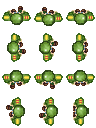
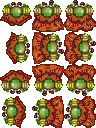
bomb makes comrades sad

diff --git a/src/game.js b/src/game.js
@@ -1,55 +1,58 @@
 
 /* Game namespace */
+//me.game.COMRADE_OBJECT = 10;
 var game = {
     // Run on page load.
     comrads: [],
     sam: null,
+    bomb: null,
 
     onload : function () {
-        // Initialize the video.
-        if (!me.video.init("screen", 960, 480, true, 'auto')) {
-            alert("Your browser does not support HTML5 canvas.");
-            return;
-        }
+      // Initialize the video.
+      if (!me.video.init("screen", 960, 480, true, 'auto')) {
+        alert("Your browser does not support HTML5 canvas.");
+        return;
+      }
 		
-		// add "#debug" to the URL to enable the debug Panel
-		if (document.location.hash === "#debug") {
-			window.onReady(function () {
-				me.plugin.register.defer(debugPanel, "debug");
-			});
-		}
-        me.debug.renderHitBox = true;
-        // Initialize the audio.
-        me.audio.init("mp3,ogg");
-        //Import entities
+  		// add "#debug" to the URL to enable the debug Panel
+  		if (document.location.hash === "#debug") {
+  			window.onReady(function () {
+  				me.plugin.register.defer(debugPanel, "debug");
+  			});
+  		}
+      me.debug.renderHitBox = true;
+      // Initialize the audio.
+      me.audio.init("mp3,ogg");
+      //Import entities
 
-        me.entityPool.add("sam",game.Sam);
-        me.entityPool.add("comrad",game.Comrad);
+      me.entityPool.add("bomb",game.BombEntity);
+      me.entityPool.add("sam",game.Sam);
+      me.entityPool.add("comrad",game.Comrad);
 
-        // bind keys
-        me.input.bindKey( me.input.KEY.LEFT, "left" );
-        me.input.bindKey( me.input.KEY.RIGHT, "right" );
-        me.input.bindKey( me.input.KEY.UP, "up" );
-        me.input.bindKey( me.input.KEY.DOWN, "down" );
+          // bind keys
+      me.input.bindKey( me.input.KEY.LEFT, "left" );
+      me.input.bindKey( me.input.KEY.RIGHT, "right" );
+      me.input.bindKey( me.input.KEY.UP, "up" );
+      me.input.bindKey( me.input.KEY.DOWN, "down" );
 
-        // Set a callback to run when loading is complete.
-        me.loader.onload = this.loaded.bind(this);
-     
-        // Load the resources.
-        me.loader.preload(game.resources);
+      // Set a callback to run when loading is complete.
+      me.loader.onload = this.loaded.bind(this);
+       
+      // Load the resources.
+      me.loader.preload(game.resources);
 
-        // Initialize melonJS and display a loading screen.
-        me.state.change(me.state.LOADING);
+      // Initialize melonJS and display a loading screen.
+      me.state.change(me.state.LOADING);
     },
 
     // Run on game resources loaded.
     loaded : function () {
-        me.state.set(me.state.MENU, new game.TitleScreen());
-        me.state.set(me.state.PLAY, new game.PlayScreen());
-        me.state.set(me.state.GAMEOVER, new game.GameOverScreen());
+      me.state.set(me.state.MENU, new game.TitleScreen());
+      me.state.set(me.state.PLAY, new game.PlayScreen());
+      me.state.set(me.state.GAMEOVER, new game.GameOverScreen());
 
-        // Start the game.
-        //me.state.change(me.state.MENU);
-        me.state.change(me.state.PLAY);
+      // Start the game.
+      //me.state.change(me.state.MENU);
+      me.state.change(me.state.PLAY);
     }
 };

diff --git a/src/entities/comrad.js b/src/entities/comrad.js
@@ -1,63 +1,65 @@
 // Base person.
 game.Comrad = me.ObjectEntity.extend({
-	init: function(x, y, settings) {
-		this.parent(x, y, settings);
-		this.nickname = settings.nickname || "Charly";
+  init: function(x, y, settings) {
+    settings.image = "comrad";  
+    this.parent(x, y, settings);
+    this.nickname = settings.nickname || "Charly";
 
-		this.gravity = 0.0;
+    this.gravity = 0.0;
     this.origVelocity = new me.Vector2d( 5.0, 5.0 );
     this.setVelocity( this.origVelocity.x, this.origVelocity.y );
     this.setFriction(0.55,0.55);
 
     this.range = Math.random()*game.config.circleDist + game.config.minDist;
-   // this.updateColRect(-1, 0, 4, 30);
+     // this.updateColRect(-1, 0, 4, 30);
 
     this.directionString = "up";
     var directions = [ "up", "right", "down", "left" ];
-    
+      
     for ( var i = 0; i < directions.length; i++ )  {
-    	var index = i*3;
+      var index = i*3;
       this.renderable.addAnimation( directions[ i ] + "idle", [ index + 2 ] );
       this.renderable.addAnimation( directions[ i ] + "run",
-          [ index + 1, index ] );
+        [ index + 1, index ] );
     }
     this.renderable.setCurrentAnimation( this.directionString + "idle" );
     this.renderable.animationspeed = 5;
-
+    
+    this.type = me.game.COMRADE_OBJECT;
     game.comrads.push(this);
     this.index = game.comrads.indexOf(this);
     this.posX = (this.index % game.config.rowLength +1) * 48;
     this.posY = Math.floor(this.index / game.config.rowLength +1) * 48;
-	},
+  },
 
-	checkMovement: function(){
+  checkMovement: function(){
     var dist = this.distanceTo(game.sam);
     var distX = Math.cos(this.angleTo(game.sam)) * dist;
     var distY = Math.sin(this.angleTo(game.sam)) * dist;
     if (Math.abs(distX) > this.posX){
-    	this.vel.x += (distX > 0.0) ? this.accel.x * me.timer.tick : -this.accel.x * me.timer.tick;
+      this.vel.x += (distX > 0.0) ? this.accel.x * me.timer.tick : -this.accel.x * me.timer.tick;
     }
     if (Math.abs(distY) > this.posY){
-    	this.vel.y += (distY > 0.0) ? this.accel.y * me.timer.tick : -this.accel.y * me.timer.tick;
+      this.vel.y += (distY > 0.0) ? this.accel.y * me.timer.tick : -this.accel.y * me.timer.tick;
     }
     this.directionString = game.sam.directionString;
-	},
+  },
 
-	updateAnimation: function(){
-		if ( this.vel.x != 0.0 || this.vel.y != 0.0 ) {
+  updateAnimation: function(){
+    if ( this.vel.x != 0.0 || this.vel.y != 0.0 ) {
       this.renderable.setCurrentAnimation( this.directionString + "run" );
     } else {
       this.renderable.setCurrentAnimation( this.directionString + "idle" );
     }
-	},
+  },
 
-	update: function(){
-		this.checkMovement();
-		this.updateAnimation();
+  update: function(){
+    this.checkMovement();
+    this.updateAnimation();
 
-		this.updateMovement();
+    this.updateMovement();
 
-		this.parent(this);
-		return true;
-	}
+    this.parent(this);
+    return true;
+  }
 });

diff --git a/src/resources.js b/src/resources.js
@@ -4,11 +4,14 @@ game.resources = [
 	 * @example
 	 * {name: "example", type:"image", src: "data/img/example.png"},
 	 */
-	{name: "maptile1",  type:"image", src: "resources/img/maptile1.png"},
+	{name: "maptile1",  type: "image", src: "resources/img/maptile1.png"},
 	{name: "sam", type: "image", src: "resources/img/sam.png"},
+  {name: "comrad", type: "image", src: "resources/img/comrad.png"},
   {name: "panel-top", type: "image", src: "resources/img/panel.png"},
 	{name: "welcome_screen", type: "image", src: "resources/img/welcome_screen.png"},
 	{name: "gameover_screen", type: "image", src: "resources/img/gameover_screen.png"},
+	//enemies
+	{name: "tempenemy", type: "image", src: "resources/img/tempenemy.png" },
 	/* Atlases 
 	 * @example
 	 * {name: "example_tps", type: "tps", src: "data/img/example_tps.json"},
@@ -35,7 +38,7 @@ game.resources = [
 	 * {name: "example_font", type: "image", src: "/resources/img/example_font.png"}
 	 */
 	{name: "32x32_font", type: "image", src: "resources/img/32x32_font.png"},
-    {name: "16x16_font", type: "image", src: "resources/img/16x16_font.png"}
+  {name: "16x16_font", type: "image", src: "resources/img/16x16_font.png"}
 
 ];
 game.ScoreObject = me.HUD_Item.extend({

diff --git a/src/entities/sam.js b/src/entities/sam.js
@@ -1,8 +1,9 @@
 // TODO
 game.Sam = me.ObjectEntity.extend({
 	init: function(x, y, settings) {
-		this.parent(x, y, settings);
-		this.nickname = settings.nickname || "Sam";
+    settings.image = "sam";  
+    this.parent(x, y, settings);
+    this.nickname = settings.nickname || "Sam";
 
 		this.gravity = 0.0;
     this.origVelocity = new me.Vector2d( 7.0, 7.0 );
@@ -21,15 +22,15 @@ game.Sam = me.ObjectEntity.extend({
     
     for ( var i = 0; i < directions.length; i++ )  {
     	var index = i*3;
-      this.renderable.addAnimation( directions[ i ] + "idle", [ index + 2 ] );
+      this.renderable.addAnimation( directions[ i ] + "idle", [ index ] );
       this.renderable.addAnimation( directions[ i ] + "run",
-          [ index + 1, index ] );
+          [ index + 1, index + 2 ] );
     }
     this.renderable.setCurrentAnimation( this.directionString + "idle" );
     this.renderable.animationspeed = 8;
 
     me.game.viewport.follow( this.pos, me.game.viewport.AXIS.BOTH );
-
+    this.type = me.game.COMRADE_OBJECT;
     game.sam = this;
 	},
 

diff --git a/src/entities/bomb.js b/src/entities/bomb.js
@@ -1,16 +1,30 @@
-game.Bomb = me.ObjectEntity.extend({
+game.BombEntity = me.ObjectEntity.extend({
 	init: function(x, y, settings){
+		settings.image = "tempenemy";
 		this.parent(x, y, settings);
 
+		this.gravity = 0.0;
 		this.collidable = true; //можно сталкиваться
 		this.type = me.game.ENEMY_OBJECT;
-	},
 
-	onCollision: function(res, obj){
-
+		game.bomb = this;
 	},
 
 	update: function(){
-		return false;
+		// do nothing if not in viewport
+    if (!this.inViewport)
+    	return false;
+
+    var res = me.game.collide(this, true);
+    if (res){
+    	for (var i = 0, len = res.length; i < len; ++i){
+    		if (res[i].obj.type === me.game.COMRADE_OBJECT ){
+    			res[i].obj.renderable.flicker(45);
+    		}
+    	}
+    }
+
+    this.parent();
+    return 
 	}
 });

diff --git a/index.html b/index.html
@@ -22,6 +22,7 @@
   		
   		<script type="text/javascript" src="src/entities/sam.js"></script>
       <script type="text/javascript" src="src/entities/comrad.js"></script>
+      <script type="text/javascript" src="src/entities/bomb.js"></script>
 
       <script type="text/javascript" src="src/screens/title.js"></script>
       <script type="text/javascript" src="src/screens/play.js"></script>
